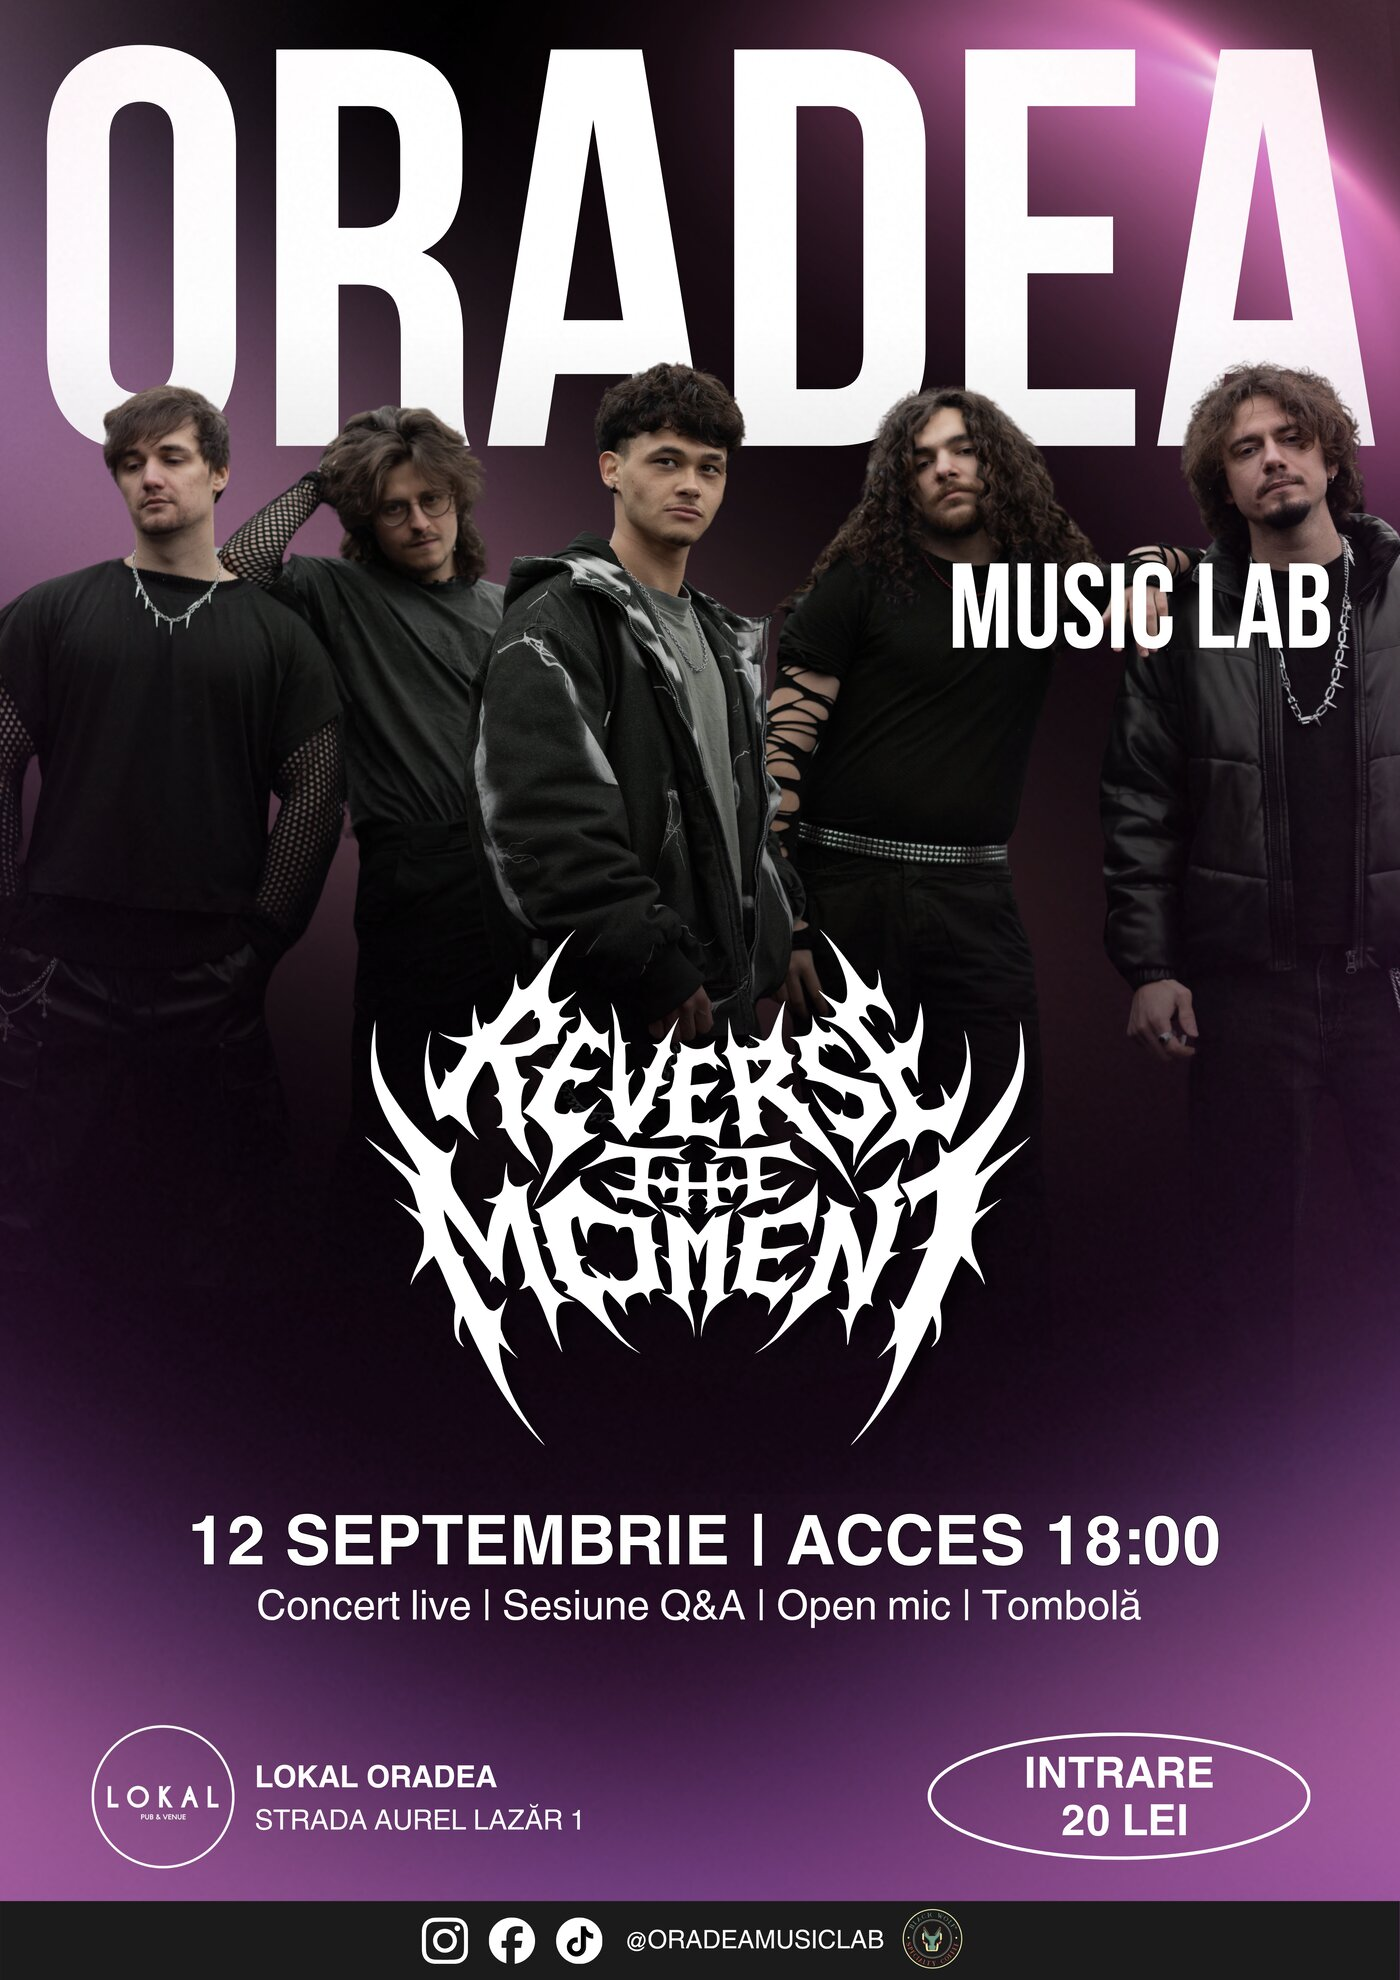
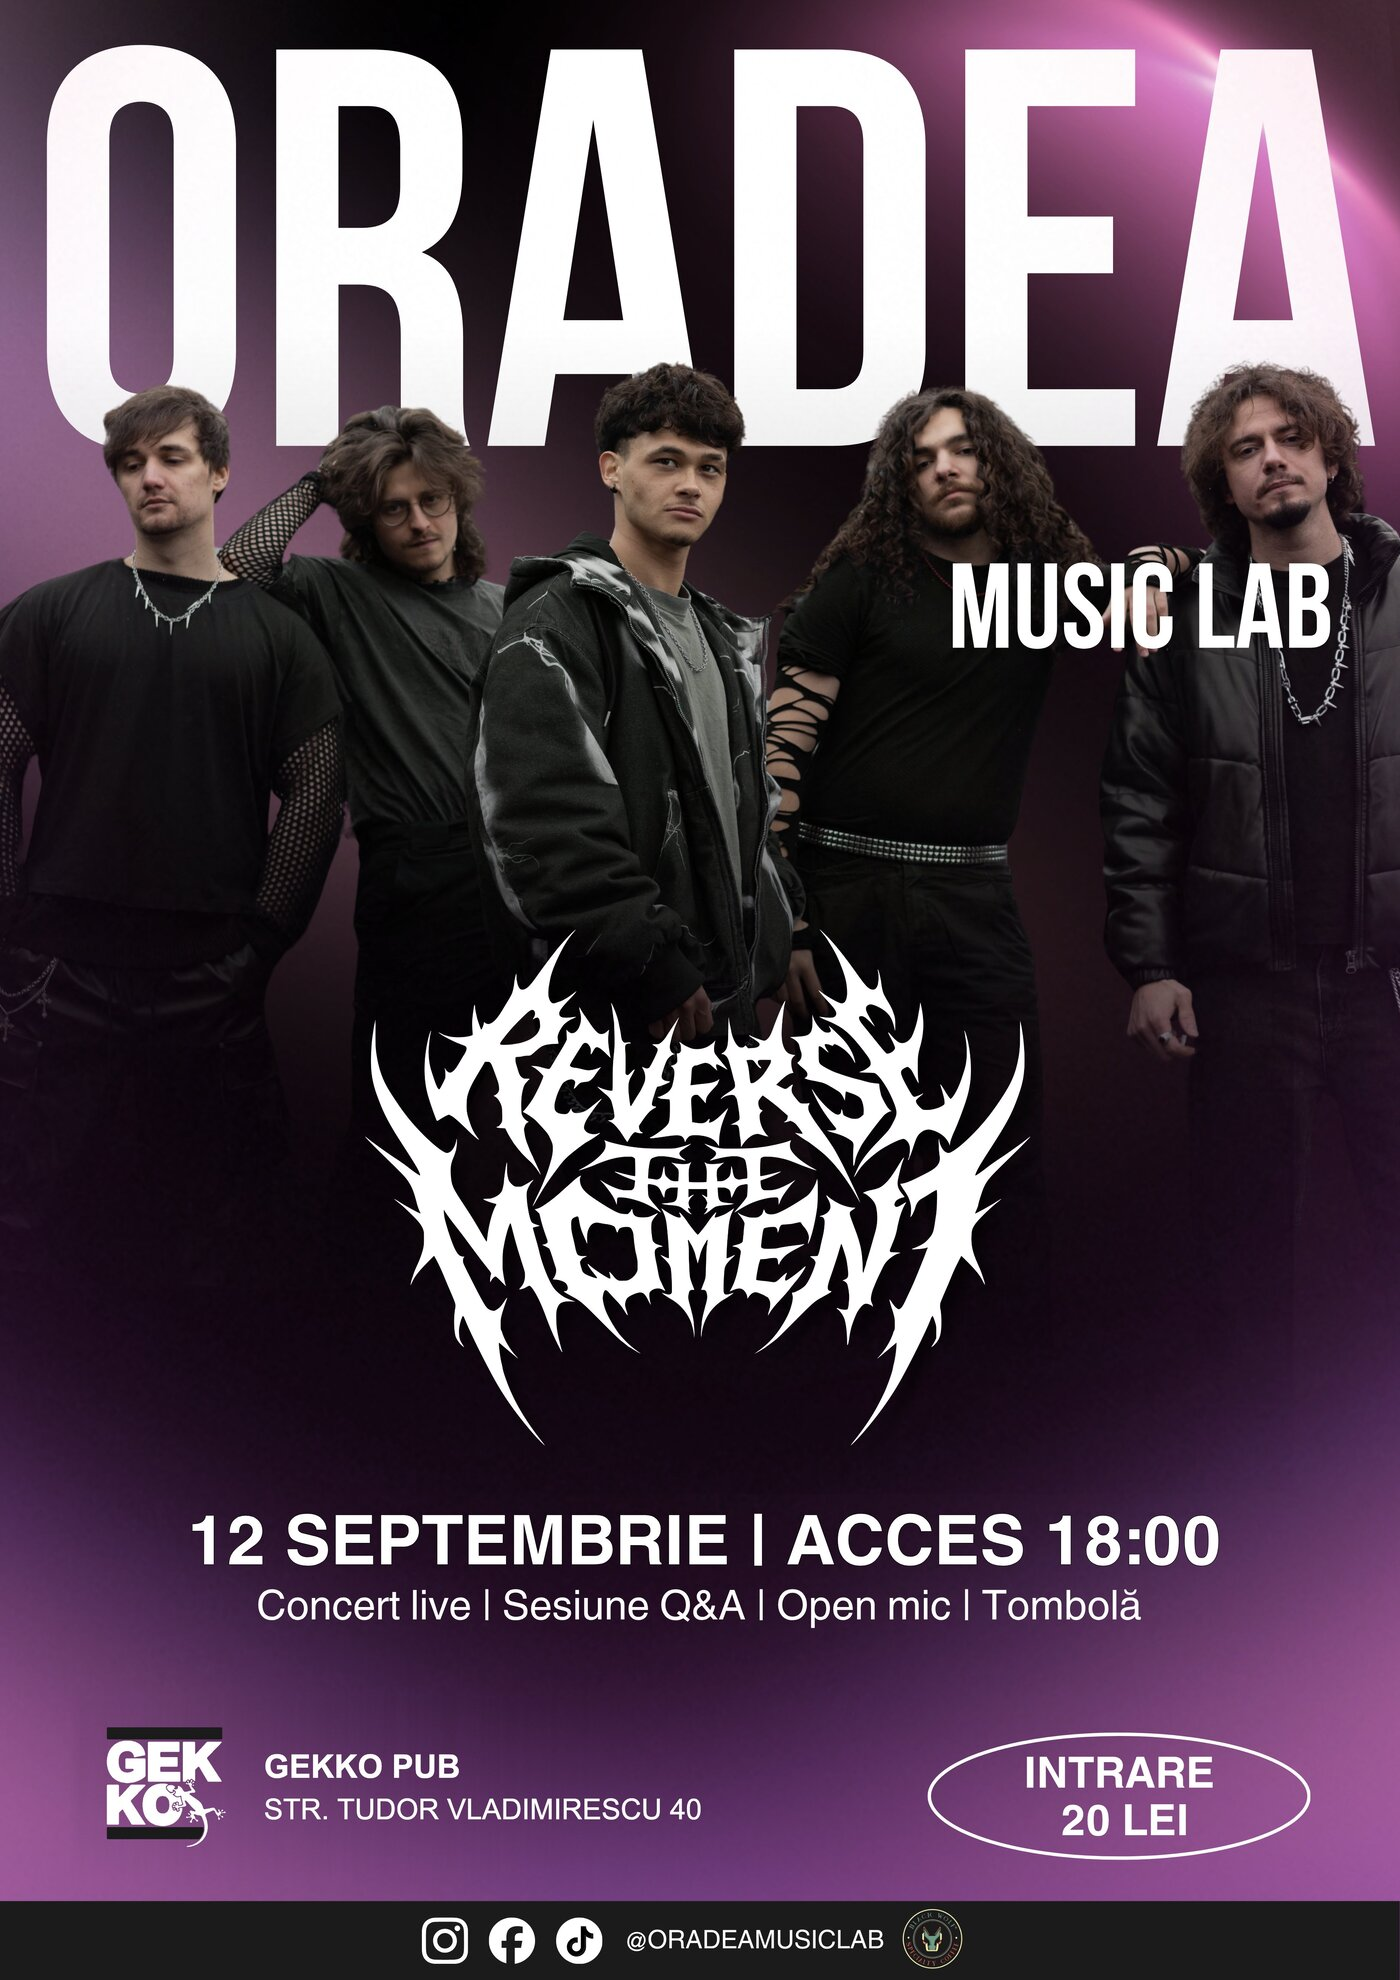
OML V: noul poster (Gekko Pub) + locație actualizată de la Lokal
Posterul vechi (Lokal) era încă live pe pagină; clientul a trimis
posterul nou cu locația schimbată la Gekko Pub, Str. Tudor Vladimirescu 40.

- public/oml5-poster.jpg înlocuit cu noul afiș (redimensionat la
  1400x1980 ca să păstreze dimensiunea fișierului comparabilă cu cel vechi)
- src/data/events.ts: nextEvent.location și posterAlt actualizate la
  "Gekko Pub, Oradea"; edițiile trecute (I-IV) rămân neschimbate —
  acelea chiar au avut loc la Lokal

Claude-Session: https://claude.ai/code/session_01X2bdTEmnG4mtdDqVCTD6nX

Changed region(s): [[0.0614, 0.8626, 0.4914, 0.9551]]

diff --git a/src/data/events.ts b/src/data/events.ts
@@ -70,8 +70,9 @@ export function formatEventDate(isoDate: string): string {
   return `${weekday}, ${date.getDate()} ${month}`;
 }
 
-// Următorul eveniment confirmat: OML V, 12 Septembrie 2026, Lokal, invitat special Reverse
-// The Moment — text complet + poster primite de la client (2026-09-04). Liniile "📍 Unde?" /
+// Următorul eveniment confirmat: OML V, 12 Septembrie 2026, Gekko Pub, invitat special Reverse
+// The Moment — text complet + poster primite de la client (2026-09-04, locație actualizată la
+// Gekko Pub pe 2026-09-10 — posterul original avea Lokal). Liniile "📍 Unde?" /
 // "🕕 Când?" din textul original au fost omise din descriere (nu rescrise) fiindcă dublau
 // location/dateDisplay de mai jos, deja afișate separat cu iconițe pe pagină. `extras` combină
 // tombola (vizibilă pe poster) cu creditul Black Wolf din text, urmând tiparul de la OML IV.
@@ -88,10 +89,10 @@ export const nextEvent: EventInfo = {
   isoDate: "2026-09-12",
   day: "12",
   month: "Septembrie",
-  location: "Lokal, Oradea",
+  location: "Gekko Pub, Oradea",
   extras: "Tombolă & pizza din partea Black Wolf",
   poster: "/oml5-poster.jpg",
-  posterAlt: "Afiș Oradea Music Lab V — Reverse The Moment, 12 Septembrie, Lokal Oradea",
+  posterAlt: "Afiș Oradea Music Lab V — Reverse The Moment, 12 Septembrie, Gekko Pub Oradea",
   description: [
     "Asociația Oradea Music Lab vă așteaptă alături de invitații noștri speciali, formația metalcore Reverse The Moment, pentru a ne distra și a învăța împreună la cea de-a cincea ediție a evenimentului emblematic OML V.",
     "De-a lungul activității, Reverse the Moment a susținut numeroase concerte în România, a ajuns în finala Wacken Metal Battle Romania & Moldova 2024 și a urcat pe Main Stage la Rockstadt Extreme Fest 2026, unul dintre cele mai importante festivaluri de muzică extremă din Europa. Prin show-uri energice și o viziune artistică bine definită, trupa se conturează ca una dintre cele mai promițătoare prezențe din noul val al scenei modern metal din România.",
